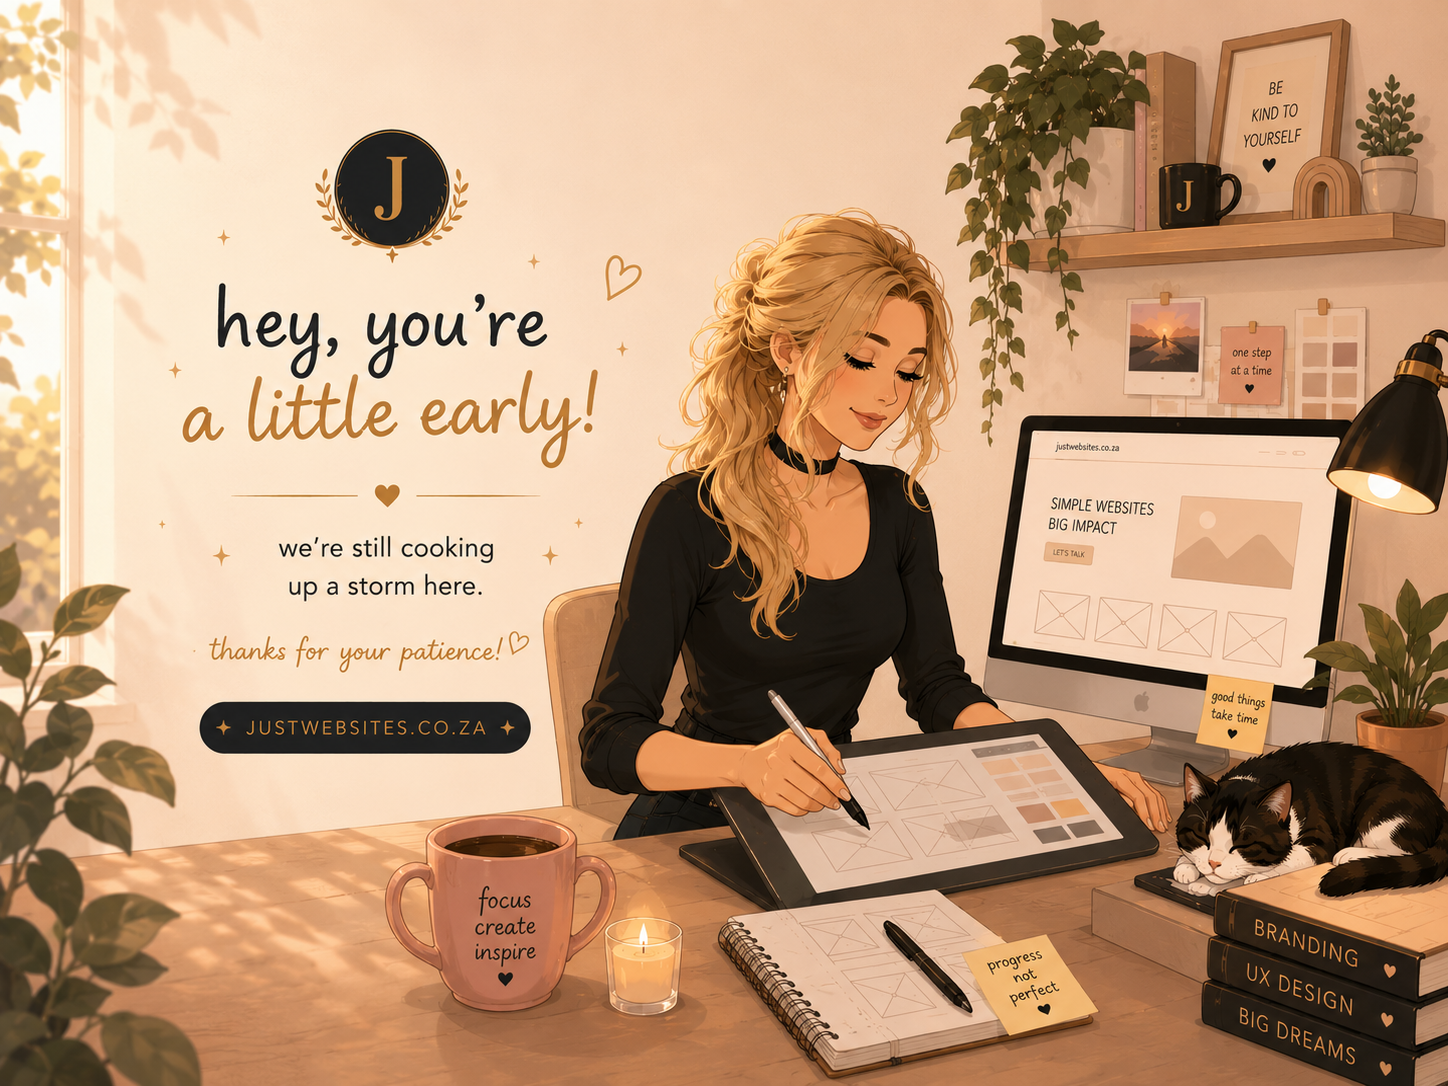
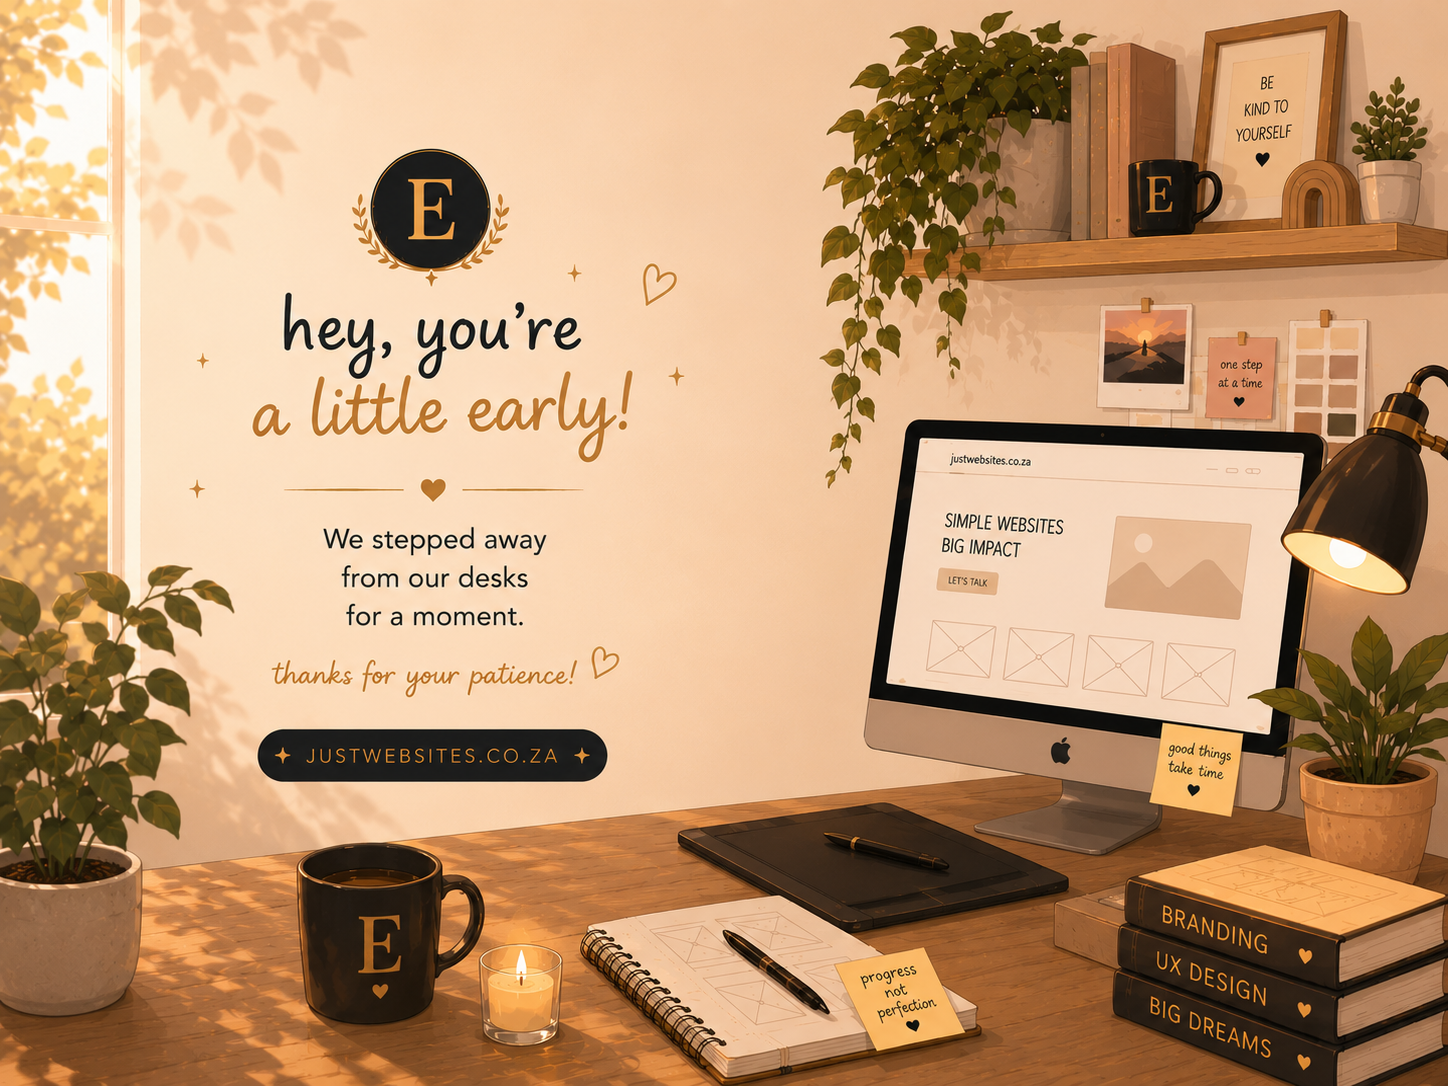
Aded scroll Scale and opacity transformation to the Project-Card Section

diff --git a/app/components/project-card.tsx b/app/components/project-card.tsx
@@ -1,0 +1,59 @@
+"use client";
+
+import { useRef } from "react";
+import Image from "next/image";
+import { projectsData } from "@/lib/data";
+import { motion, useScroll, useTransform } from "framer-motion";
+
+type ProjectProps = (typeof projectsData)[number];
+export default function Project({
+  title,
+  description,
+  tags,
+  imageUrl,
+}: ProjectProps) {
+  const ref = useRef<HTMLDivElement>(null);
+  const { scrollYProgress } = useScroll({
+    target: ref,
+    offset: ["0 1", "1.33 1"],
+  });
+  const scale = useTransform(scrollYProgress, [0, 1], [0.8, 1]);
+  const opacity = useTransform(scrollYProgress, [0, 1], [0.6, 1]);
+  return (
+    <motion.div
+      ref={ref}
+      style={{
+        scale: scale,
+        opacity: opacity,
+      }}
+      className=" group mb-8 sm:mb-12"
+    >
+      <section className="max-w-2xl mx-auto p-4 border-black/5 overflow-hidden  sm:pr-8 relative sm:h-80 rounded-lg shadow-md hover:bg-mauve-200 transition group-even:pl-8">
+        <div className="pt-4 pb-7 px-5 sm:pl-8 sm:pr-2 sm:pt-10 sm:max-w-1/2 flex flex-col h-full group-even:ml-80">
+          <h3 className="text-2xl font-semibold ">{title}</h3>
+          <p className="mt-2 leading-relaxed">{description}</p>
+          <ul className="flex flex-wrap gap-2 mt-4 ">
+            {tags.map((tag, index) => (
+              <li
+                key={index}
+                className="inline-block mr-2 rounded-full bg-gray-200 px-3 py-1 text-sm font-semibold text-gray-700 mb-2"
+              >
+                {tag}
+              </li>
+            ))}
+          </ul>
+        </div>
+        <Image
+          src={imageUrl}
+          alt={title}
+          quality={95}
+          className="absolute top-24 -right-5 w-1/2 width-1/2 object-cover mt-8 sm:top-0  rounded-t-lg group-even:right-[initial] group-even:-left-5 
+        transition group-hover:scale-105 group-hover:transition-all 
+        group-hover:translate-x-3 group-hover:-translate-y-3 group-hover:-rotate-2
+        group-even:group-hover:translate-x-3 group-even:group-hover:translate-y-3 group-even:group-hover:rotate-2
+        "
+        />
+      </section>
+    </motion.div>
+  );
+}

diff --git a/app/components/Header.tsx b/app/components/Header.tsx
@@ -7,14 +7,15 @@ import Link from "next/link";
 export default function Header() {
   return (
     <header className=" fixed top-1 z-999 flex w-full flex-wrap items-center justify-center 
-    opacity:50 backdrop-blur-md transition-all duration-300  sm:top-1.7rem
+    opacity:20 backdrop-blur-md transition-all duration-300  sm:top-1.7rem
     sm:h:1.7rem ">
       <motion.div
-        className="flex items-center justify-center top-12 h-12 w-full 
+        className="flex flex-wrap items-center justify-center top-12 h-12 w-full 
          rounded-none 
          translate-x-1/2 border border-black/10  border-opacity-40 
-         bg-white  bg-opacity-80 shadow-lg  shadow-gray             
-        sm:h:3.25rem   sm:w:36rem   sm:rounded-full
+         bg-white  bg-opacity-50 shadow-lg  shadow-gray             
+        sm:h:3.25rem   sm:w:36rem   sm:rounded-full sm:opacity-30 sm:backdrop-blur-md
+     
           dark:bg-gray-950 
           dark:border-black/40 
           dark:bg-opacity-75"
@@ -25,7 +26,7 @@ export default function Header() {
       <nav className=" fixed top-0 left-1/2 -translate-x-1/2 flex items-center h-12 py-2sm:top-[1.7rem]">
         <ul
           className="flex w:2rem flex-wrap items-center justify-center 
-        gap-y-1 text-[0.9rem] font-medium text-gray-500 sm:w-[initial] sm:flex-nowrap sm:gap-5"
+        gap-y-1 text-[0.9rem] font-medium text-gray-500 sm:w-[initial] sm:flex-nowrap sm:gap-4"
         >
           {links.map((link) => (
             <motion.li

diff --git a/app/components/projects.tsx b/app/components/projects.tsx
@@ -1,7 +1,8 @@
 import React from "react";
-import Image from "next/image";
 import SectionHeading from "./section-heading";
 import { projectsData } from "@/lib/data";
+import Project from "./project-card";
+
 
 export default function Projects() {
   return (
@@ -18,18 +19,4 @@ export default function Projects() {
   );
 }
 
-type ProjectProps = (typeof projectsData)[number];
-function Project({ title, description, tags, imageUrl }: ProjectProps) {
-  return <section className="max-w-2xl mx-auto mb-8 p-4 border-black/5 overflow-hidden rounded-lg shadow-md relative">
-    <h3 className="text-xl font-semibold mb-2">{title}</h3>
-    <p className="mt-2 leading-relaxed">{description}</p>
-    <ul>
-        {tags.map((tag, index) => (
-          <li key={index} className="inline-block mr-2 rounded-full bg-gray-200 px-3 py-1 text-sm font-semibold text-gray-700 mb-2">
-            {tag}
-          </li>
-        ))}
-    </ul>
-    <Image src={imageUrl} alt={title} quality={95} className="absolute top-8 -right-40" />
-  </section>;
-}
+

diff --git a/app/components/UnderConstruction.tsx b/app/components/UnderConstruction.tsx
@@ -1,6 +1,6 @@
 export default function UnderConstruction() {
   return (
-    <main className="flex h-screen w-screen items-center justify-center bg-black">
+    <main className="flex h-screen w-screen items-center overflow-hidden bg-black">
       <picture>
         <source media="(min-width: 1024px)" srcSet="/under-construction-desktop.png" />
         <source media="(min-width: 640px)" srcSet="/under-construction-tablet.png" />
